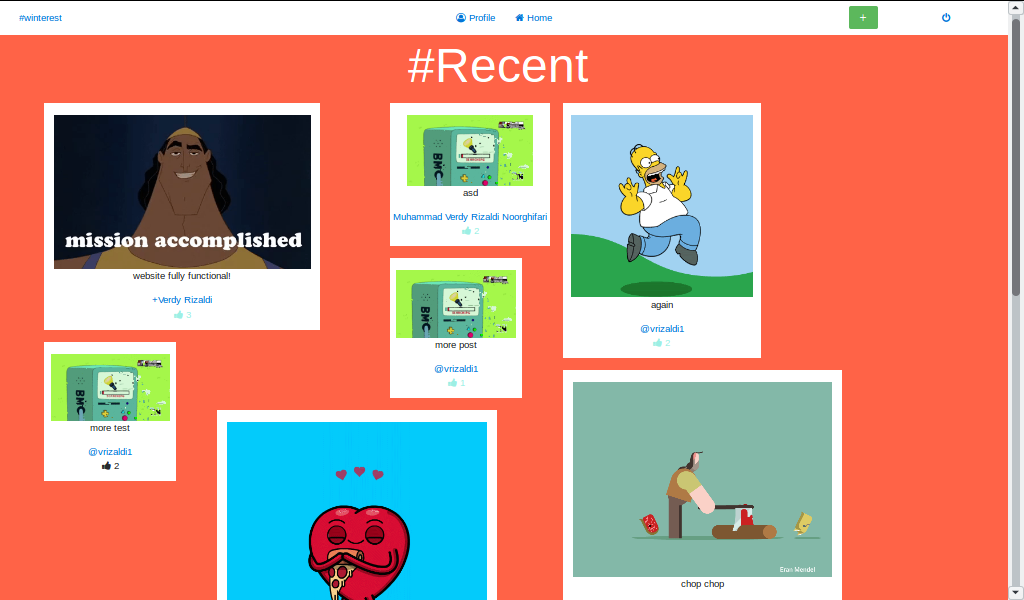
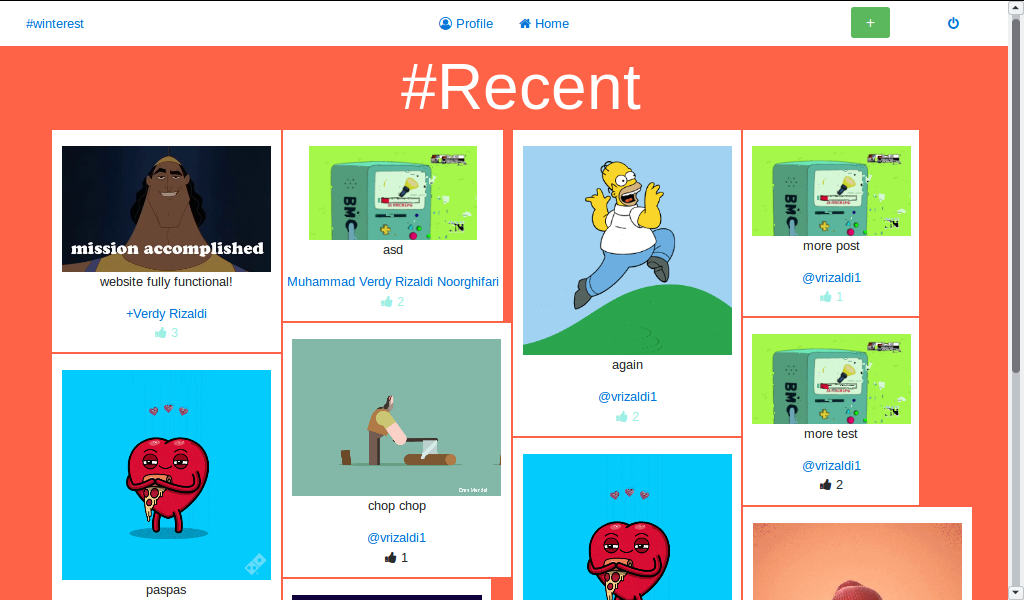
Fonts changed + all links added

diff --git a/views/index.html b/views/index.html
@@ -9,6 +9,7 @@
 	-->
     <meta charset="utf-8">
 
+    <link href="https://fonts.googleapis.com/css?family=Arvo|Josefin+Slab" rel="stylesheet">
     <link href="/bootstrap.min.css" rel="stylesheet">
     <link href="/font-awesome.min.css" rel="stylesheet">
 		<link href="/index.css" rel="stylesheet">
@@ -20,7 +21,7 @@
       <a class="navbar-brand" href="/">vrizaldi</a>
 
       <button type="button" class="navbar-toggler" data-toggle="collapse" data-target="#nav">
-        <i class="fa fa-toggle-down fa-1x"></i>
+        <i class="fa fa-list fa-1x"></i>
       </button>
 
   		<div id="nav" 
@@ -49,15 +50,29 @@
   	<!-- content -->
   	<main class="container-fluid">
   		<div id="about-sec" class="section">
-	  		<h1 id="name">Verdy Noorghifari<h1>
-	  		<h3 id="username">vrizaldi</h3>
-	  		<p>
+	  		<h1 id="name" class="title">Verdy Noorghifari</h1>
+	  		<p id="bio">
 		  		A self taught developer who is passionate about Web, Mobile app and open source development; I am eager to learn as more technologies are becoming available.
 		  	</p>
+        
   		</div>
 
+      <div id="skills-wrapper" class="section">
+        <ul id="skills">
+          <li><i class="fa fa-html5"></i> HTML5</li>
+          <li><i class="fa fa-css3"></i> CSS3</li>
+          <li>Bootstrap</li>
+          <li>Javascript &amp; ES6</li>
+          <li>JQuery</li>
+          <li>ReactJS + Redux</li>
+          <li>Express.js</li>
+          <li>Node.js</li>
+          <li><i class="fa fa-git"></i> git</li>
+        </ul>
+      </div>
+
   		<div id="portofolio-sec" class="section">
-  			<h1>&lt;Projects /&gt;</h1>
+  			<h1 class="title">&lt;Projects /&gt;</h1>
   			<p>
 	  			These are some of the side projects that I have done, all open source and available online - you can use them as reference whenever you want. Most of them are stored in Github and I use other websites to host the web page and server: Codepen (for front-end), Heroku and Glitch.com (for full-stack development or API projects)
   			</p>
@@ -69,7 +84,7 @@
   		</div>
 
   		<div id="contact-sec" class="section">
-  			<h1>&lt;Contact /&gt;</h1>
+  			<h1 class="title">&lt;Contact /&gt;</h1>
   			<p>
   				If you have any business query, want to consult with me or have a any idea on how I could improve this website, please contact me through email - I am very open to opportunity and suggestion.
   			</p>
@@ -121,7 +136,20 @@
   		</div>
 
   		<footer id="footer">
-  			#moreinfo here
+  			<ul id="soc-med">
+          <li>
+            <a href="https://www.facebook.com/M.VerdyRizaldi"><i class="fa fa-facebook-official"></i></a>
+          </li>
+          <li>
+            <a href="https://codepen.io/vrizaldi/"><i class="fa fa-codepen"></i></a>
+          </li>
+          <li>
+            <a href="https://github.com/vrizaldi"><i class="fa fa-github"></i></a>      
+          </li>
+          <li>
+            <a href="https://www.freecodecamp.com/vrizaldi"><i class="fa fa-free-code-camp"></i></a>            
+          </li>
+        </ul>
   		</footer>
   	</main>
 

diff --git a/public/index.css b/public/index.css
@@ -5,7 +5,8 @@
 body {
 	margin: 0;
 	padding: 60px 0 0 0;
-	background-color: rgb(108, 45, 25);
+	background-color: #000;
+	font-family: 'Arvo';
 }
 
 .container-fluid {
@@ -24,12 +25,23 @@ body {
 	-o-box-shadow: 0 0px 5px 0px rgb(108, 107, 106);
 }
 
+.navbar-toggler {
+	background-color: rgb(255, 99, 71);
+	color: #fff;	
+	border-radius: 2px;
+}
+
 .page-nav.active {
 	color: #000;
 	background-color: #fff;
 	border: 1px solid #fff;
 	border-top-color: rgb(255, 99, 71);
 	border-bottom-color: rgb(161, 186, 245);
+}
+
+.navbar-brand, .title, .page-nav {
+	font-family: "Josefin Slab", cursive;
+	text-transform: uppercase;
 }
 
 /* sections */
@@ -41,17 +53,37 @@ body {
 
 /* about section */
 #about-sec {
-	background-color: rgb(255, 99, 71);
-	text-align: center;
-	padding: 5em 2em 2em 2em;
+	background-color: #000;
+	text-align: start;
+	padding: 9em 2em 2em 2em;
 	color: #fff;
+	border-bottom-color: rgb(255, 99, 71);
+}
+
+/* skills section */
+#skills-wrapper {
+	background-color: rgb(255, 99, 71);
 	border-bottom-color: #fff;
+}
+
+#skills {
+	list-style: none;
+	display: flex;
+	justify-content: center;
+	flex: 0 0 20%;
+	flex-wrap: wrap;
+}
+
+#skills li {
+	font-size: 1.5em;
+	margin: 10px;
 }
 
 /* portofolio section */
 #portofolio-sec {
 	background-color: #fff;
 	border-bottom-color: rgb(161, 186, 245);
+	padding-bottom: 1em;
 }
 
 #grid-sizer {
@@ -122,6 +154,13 @@ body {
 	background-color: #000;
 }
 
-#name {
-	font-weight: bold;
+#soc-med {
+	list-style: none;
+	display: flex;
+	font-size: 2em;
+	justify-content: flex-end;
+}
+
+#soc-med li {
+	margin: 5px;
 }

diff --git a/public/client.js b/public/client.js
@@ -16,6 +16,8 @@ function init() {
 	// activate tooltips
 	$('[data-toggle="tooltip"]').tooltip();
 
+	// check where in the document the user is looking at
+	checkLocation();
 }
 
 function parseProjects(projects) {
@@ -30,8 +32,8 @@ function parseProjects(projects) {
 						+ '<p class="card-text desc">' + project.desc + '</p>'
 					+ '</div>'
 					+ '<div class="project-link">'
-						+ '<a class="card-link" href="' + project.githuburl + '" target="blank">'
-							+ '<i class="fa fa-github">'
+						+ '<a class="card-link" href="' + project.sourcecodeurl + '" target="blank">'
+							+ '<i class="fa fa-code">'
 						+ '</a>'
 					+ '</div>'
 				+ '</div>'
